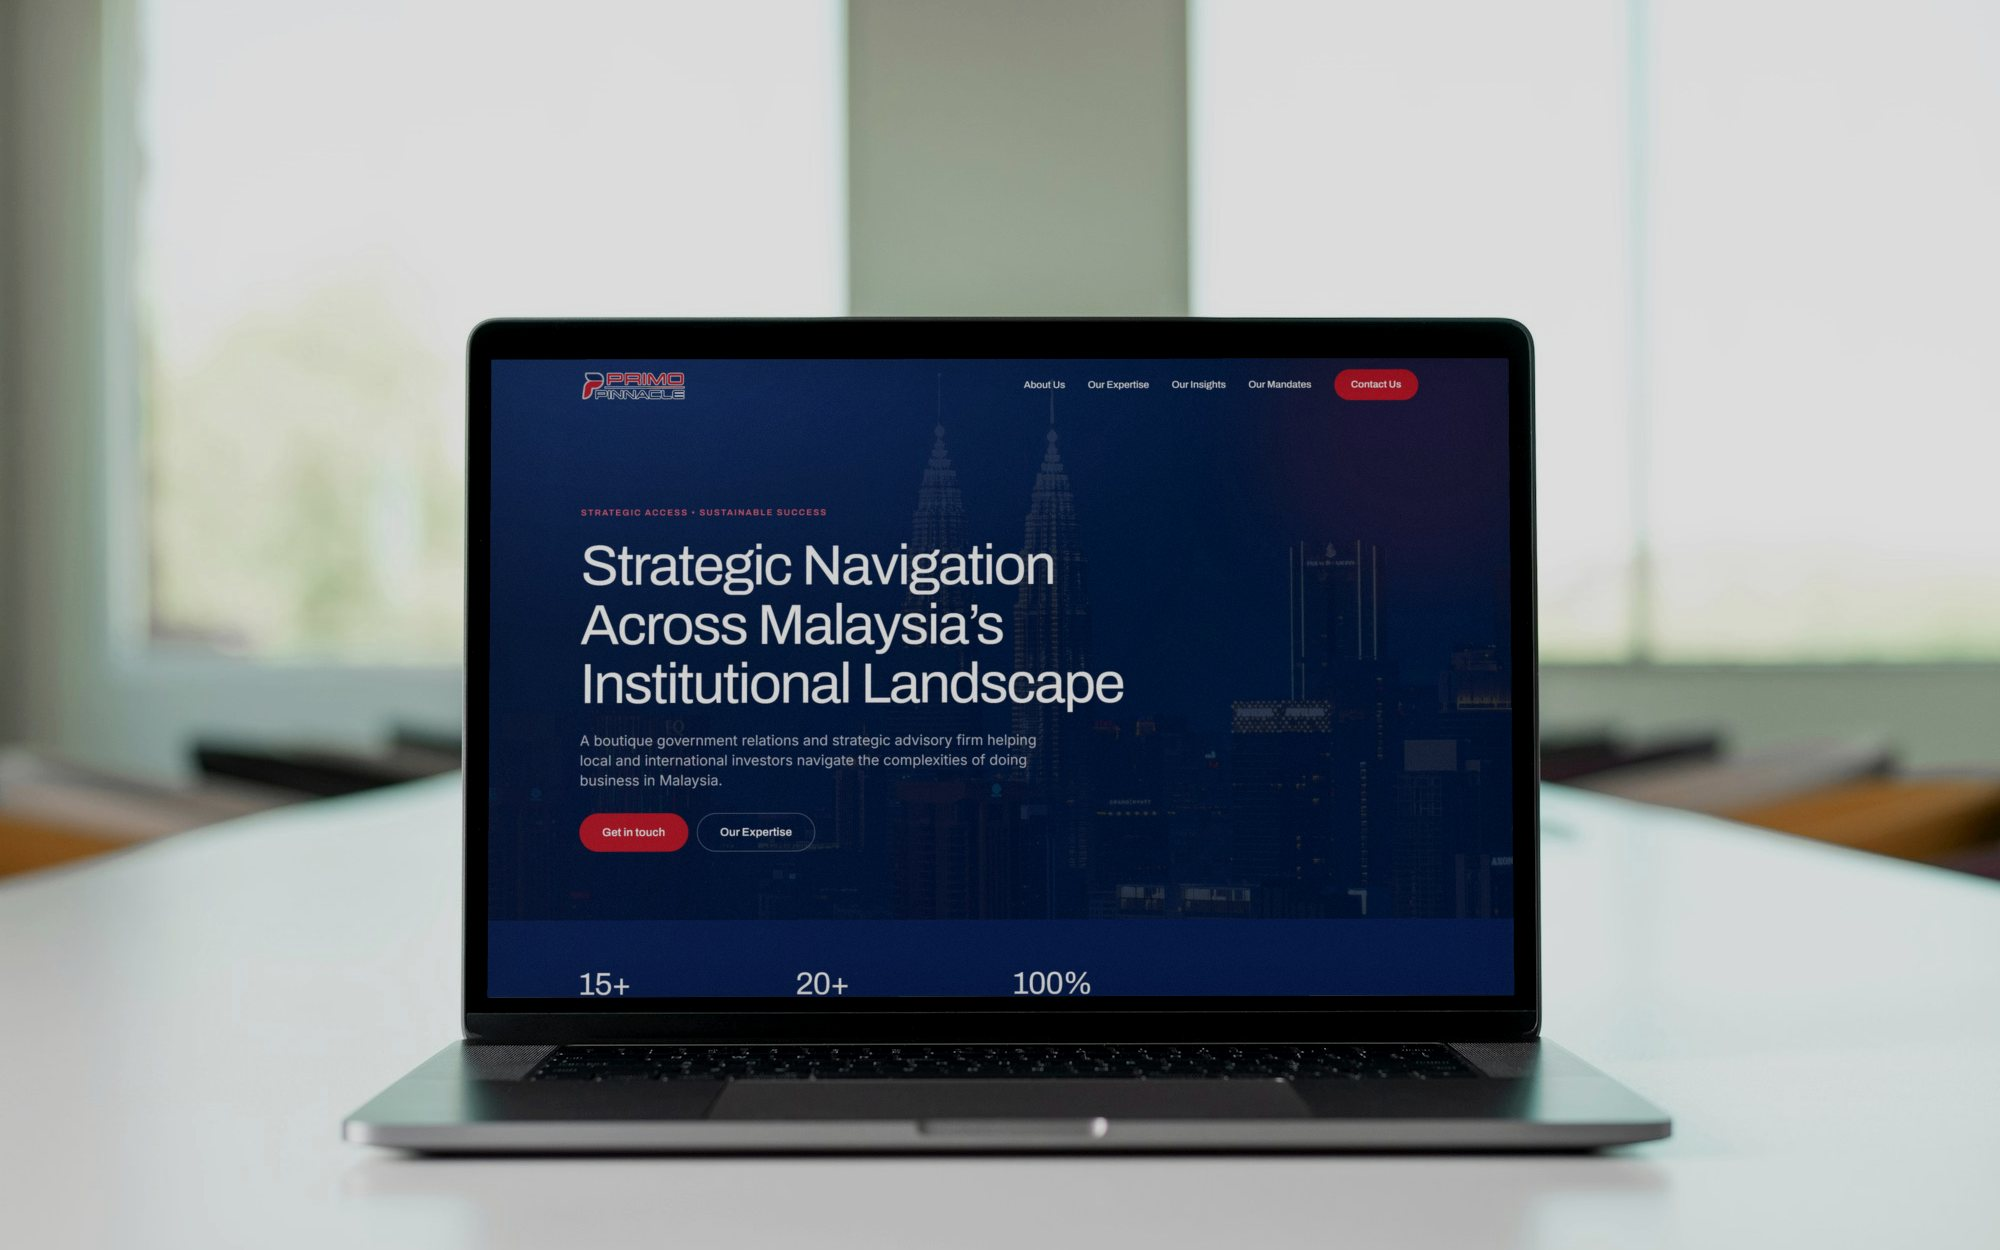
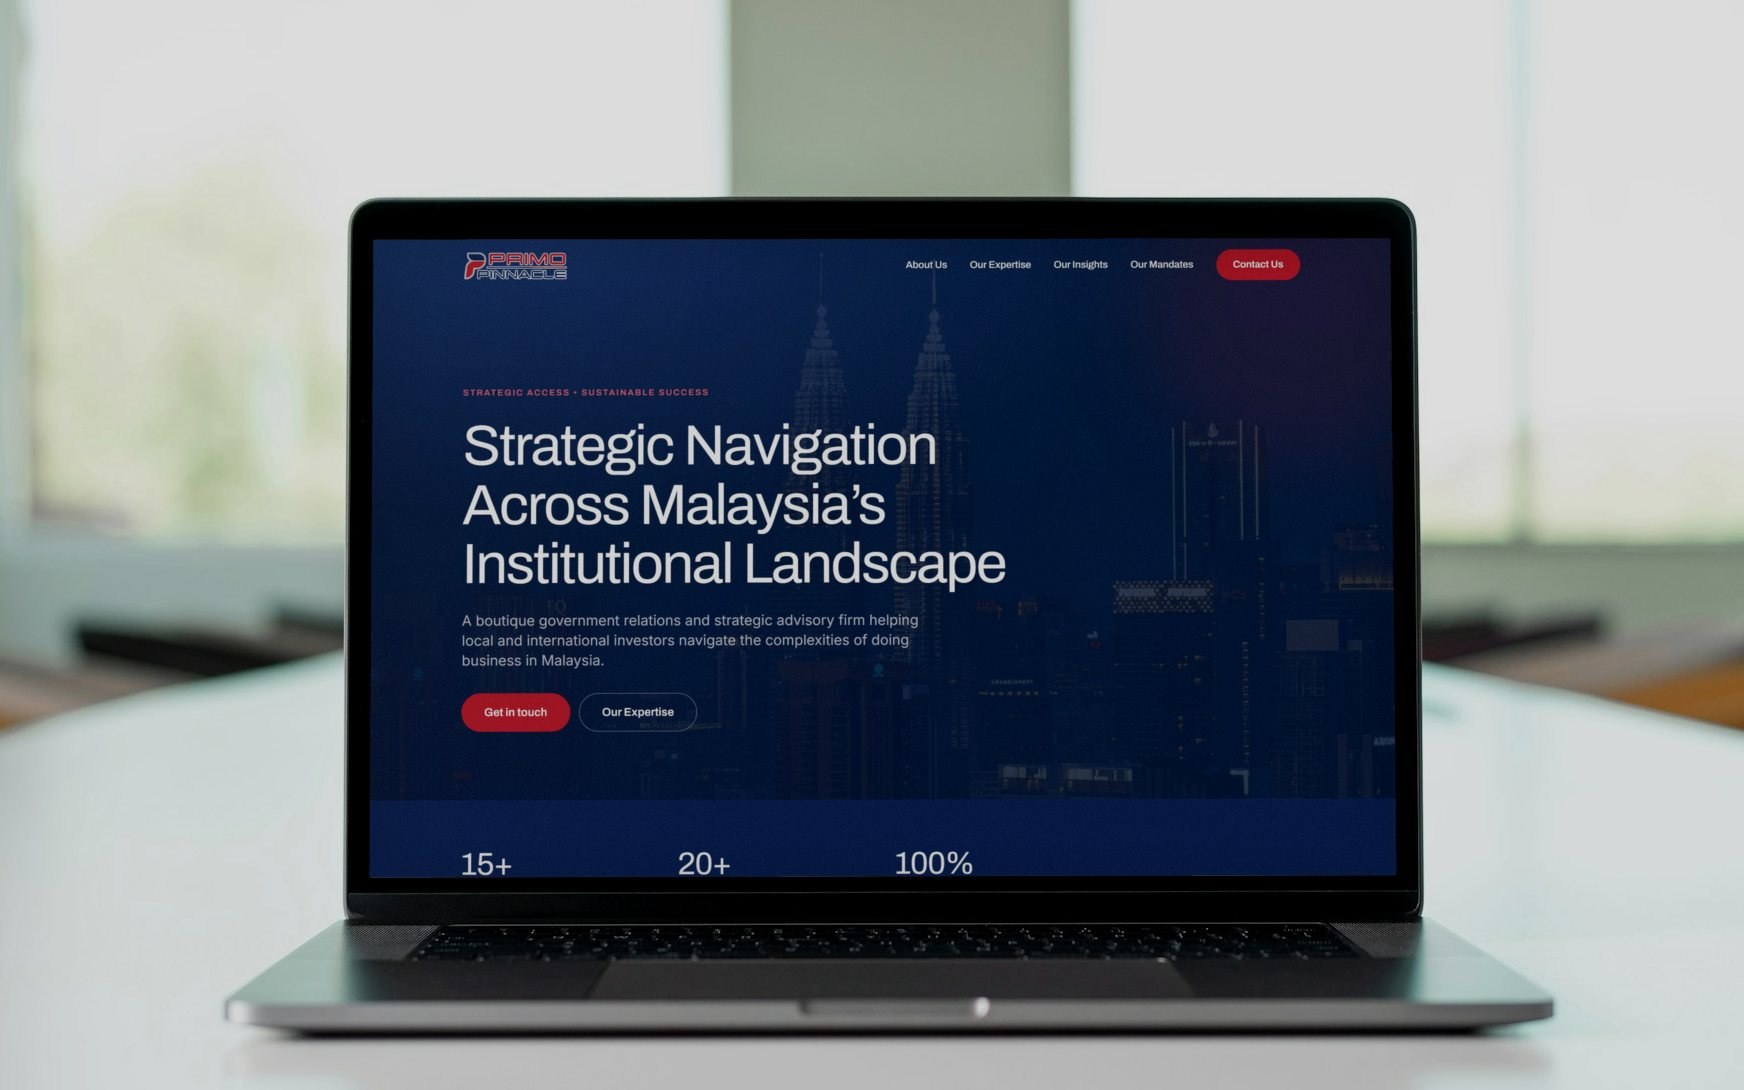
feat(software): tighter Primo Pinnacle mockup crop; page intro mentions client work

diff --git a/scripts/make-mockups.py b/scripts/make-mockups.py
@@ -79,7 +79,7 @@ SCENES = {
         display=(0, 0, 1, 1), grow=1.2,
         cover='primo-pinnacle/images/01-home.jpg', fit='cover',
         gain=0.95, tint=(1.0, 1.0, 1.0), glare=0.04, glare_from='left', blur=0.5, grain=2.0,
-        crop=(200, 130, 2200, 1380), grade=dict(brightness=0.86, color=0.95, contrast=1.03),
+        crop=(318, 250, 2062, 1340), grade=dict(brightness=0.86, color=0.95, contrast=1.03),
     ),
 }
 
